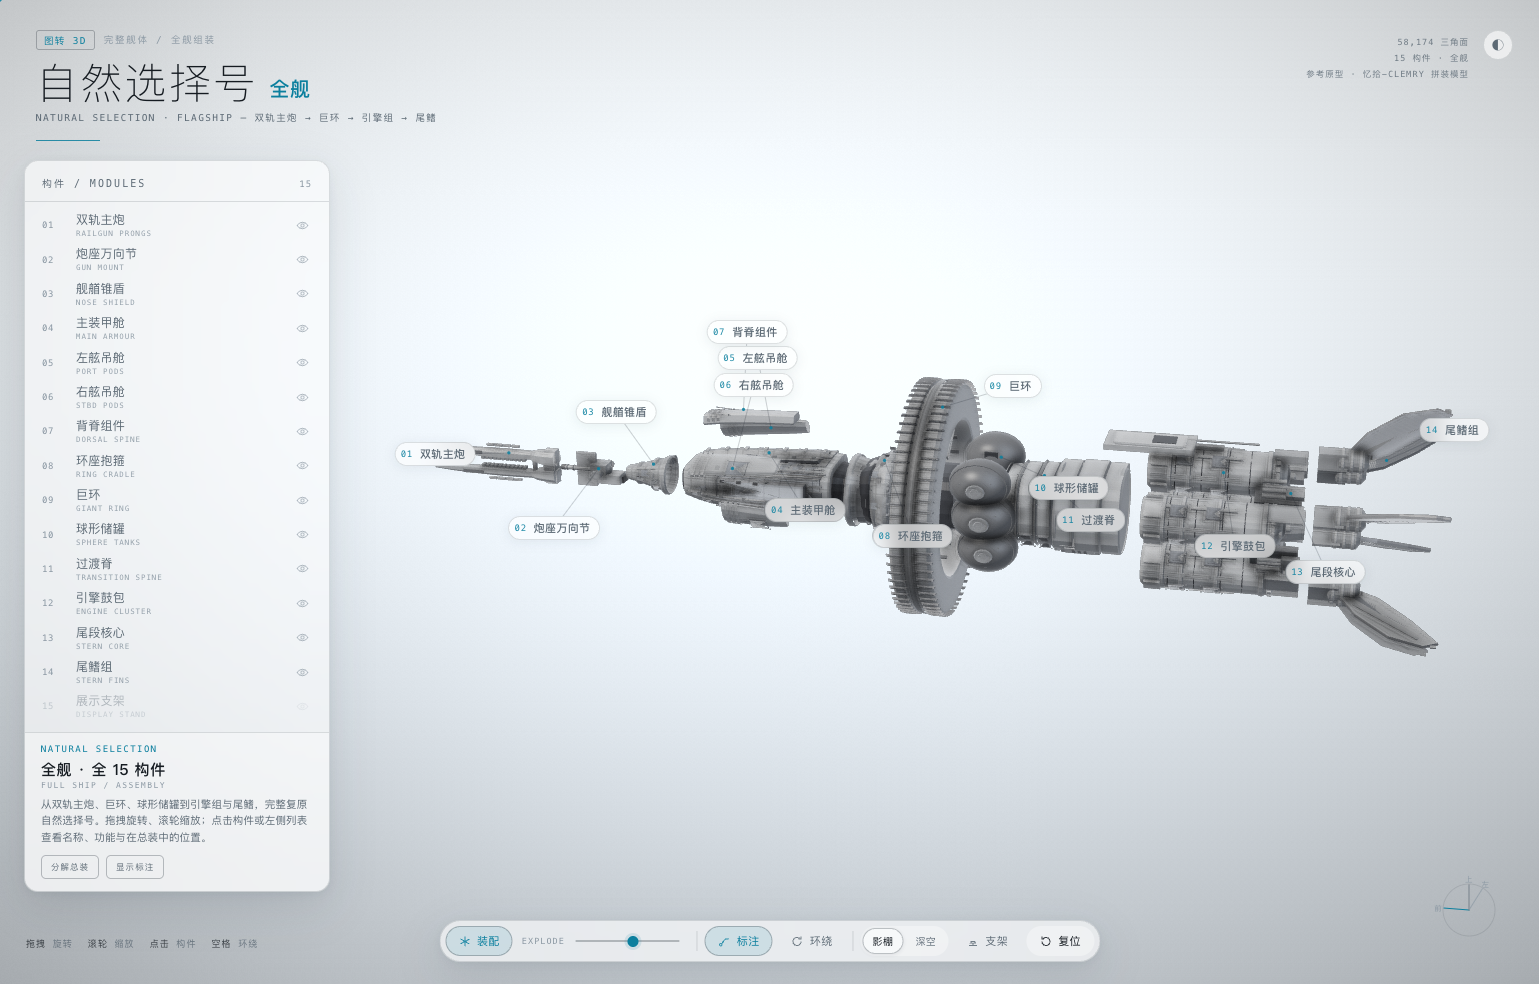
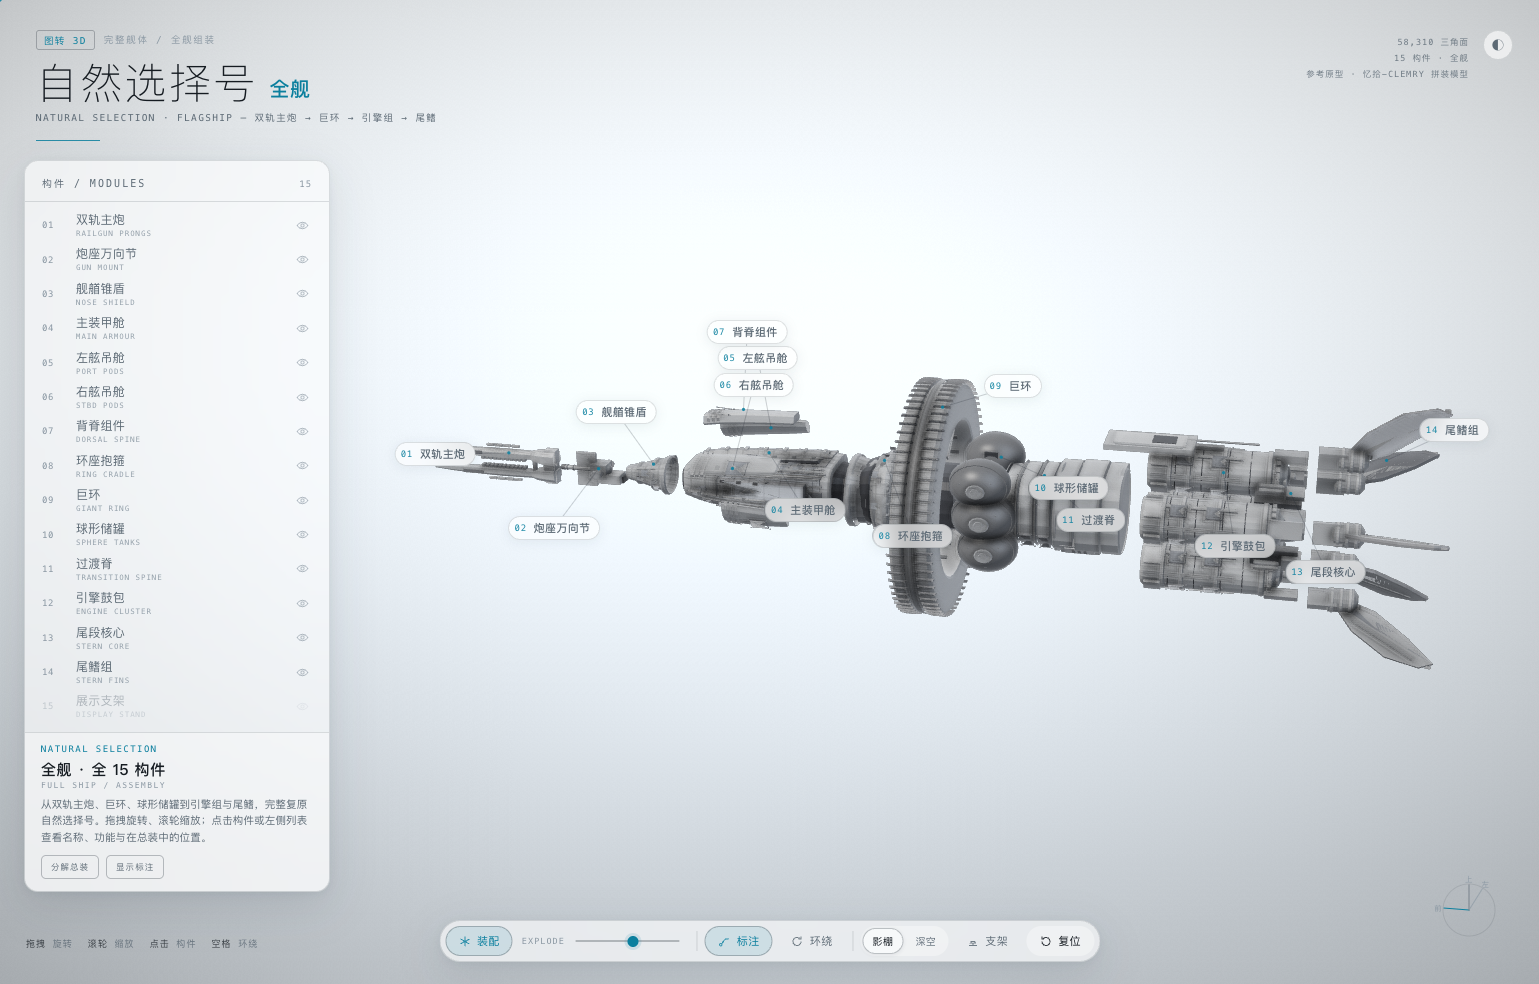
fix: 尾鳍改为 5 片并与 5 具引擎一一对应
- 尾鳍角度改为与周围 5 具引擎一致(0/72/144/216/288 度),由 6 片减为 5 片
- 每片尾鳍根部内侧增加一根独立 vernier 喷管(带箍环与暗色喷口)
- 引擎间隙的 vernier 簇由 4 根直线排列改为 3 根小三角形排列
- 尾段核心的鳍根鞍座同步改为 5 处,更新描述与预览图

Changed region(s): [[0.8109, 0.4268, 0.9357, 0.7012]]

diff --git a/自然选择号-全舰.html b/自然选择号-全舰.html
@@ -1252,7 +1252,7 @@ const PARTS = [
     desc: '尾部中央承力梁与鳍根支座,把五具环绕引擎、尾鳍与舰体主结构连成一体。',
     anchor: [-1.45, 0.55, 0.55], off: [-6.7, 0, 0] },
   { id: 13, name: '尾鳍组', en: 'STERN FINS', color: '#ffc48a',
-    desc: '尾部六片后掠稳定鳍,兼具姿态控制与散热功能,是最醒目的尾部特征。',
+    desc: '尾部五片后掠稳定鳍,与周围五具引擎一一对应,每片鳍根内各藏一根喷管。',
     anchor: [-2.4, 1.55, 0.55], off: [-8.0, 0, 0] },
   { id: 14, name: '展示支架', en: 'DISPLAY STAND', color: '#a9b4c2',
     desc: '套件附带的展示支架:双支脚 + 弯曲支臂 + 承托夹,可单独显示或收起。',
@@ -2435,19 +2435,21 @@ function buildEngines(b) {
     }
     pipe(b, [c[0] - 0.3, c[1] + 0.12, c[2]], [c[0] - 0.9, c[1] + 0.16, c[2]], 0.03, 0.02, 6, cc('metal'), true);
   }
-  // vernier nozzle clusters in the five gaps
+  // vernier clusters: 3 tubes in a small triangle, in the five gaps
   for (const d of [36, 108, 180, 252, 324]) {
     const a0 = d * Math.PI / 180;
-    for (let k = 0; k < 4; k++) {
-      const a = a0 + (k - 1.5) * 0.085;
-      const R = 1.47 + (k % 2) * 0.05;
-      const cy = Math.cos(a) * R, cz = Math.sin(a) * R;
-      const x0 = -1.68, x1 = -2.06;
-      xProf(b, [[x0, 0.055], [x1 - 0.04, 0.05], [x1, 0.032]], cy, cz, 10, cc('metal'), true, false);
-      for (let j = 0; j < 10; j++) {
-        const b0 = j / 10 * TAU, b1 = (j + 1) / 10 * TAU;
-        const P = (a2, rr) => [x1 - 0.005, cy + rr * Math.cos(a2), cz + rr * Math.sin(a2)];
-        b.tri(P(b0, 0.03), P(b1, 0.03), P((b0 + b1) / 2, 0.001), cc('recess'), [1, 0, 0], [1, 0, 0], [1, 0, 0]);
+    const rad = [0, Math.cos(a0), Math.sin(a0)], tang = [0, -Math.sin(a0), Math.cos(a0)];
+    const baseR = 1.49;
+    const baseY = rad[1] * baseR, baseZ = rad[2] * baseR;
+    const offs = [[0.065, 0.0], [-0.065, 0.0], [0.0, -0.10]];
+    for (const [ot, orr] of offs) {
+      const cy = baseY + tang[1] * ot + rad[1] * orr;
+      const cz = baseZ + tang[2] * ot + rad[2] * orr;
+      xProf(b, [[-1.62, 0.052], [-1.78, 0.052], [-2.02, 0.046], [-2.06, 0.030]], cy, cz, 9, cc('metal'), true, false);
+      for (let j = 0; j < 9; j++) {
+        const a1 = j / 9 * TAU, a2 = (j + 1) / 9 * TAU;
+        const P = (a) => [-2.062, cy + 0.032 * Math.cos(a), cz + 0.032 * Math.sin(a)];
+        b.tri(P(a1), P(a2), [-2.066, cy, cz], cc('recess'), [1, 0, 0], [1, 0, 0], [1, 0, 0]);
       }
     }
   }
@@ -2469,7 +2471,7 @@ function buildTail(b) {
     obox(b, [-1.55, cy * 1.35, cz * 1.35], [1, 0, 0], [0, cy, cz], [0, -cz, cy], 0.16, 0.08, 0.14, cc('armorD'));
   }
   // fin-root saddles
-  for (const d of [0, 60, 120, 180, 240, 300]) {
+  for (const d of [0, 72, 144, 216, 288]) {
     const a = d * Math.PI / 180;
     const cy = Math.cos(a), cz = Math.sin(a);
     obox(b, [-1.42, cy * 1.66, cz * 1.66], [1, 0, 0], [0, cy, cz], [0, -cz, cy], 0.30, 0.10, 0.20, cc('armorD'));
@@ -2514,13 +2516,25 @@ function finBlade(b, angle, scale, baseR = 0) {
   for (const x of [hubX + 0.16, hubX, hubX - 0.16]) xBand(b, x, hy, hz, 0.27, 0.032, cc('metal'));
   // root fairing block
   obox(b, to3(-1.45, 1.02), [1, 0, 0], [0, ca, sa], nrm, 0.26, 0.20, 0.24, cc('armorD'));
+  // vernier nozzle embedded in the fin root
+  {
+    const nr = 1.02 * scale + baseR + 0.06;
+    const ny = nr * ca, nz = nr * sa;
+    xProf(b, [[-1.28, 0.058], [-1.44, 0.062], [-1.76, 0.048], [-1.80, 0.032]], ny, nz, 10, cc('metal'), true, false);
+    for (let j = 0; j < 10; j++) {
+      const a0 = j / 10 * TAU, a1 = (j + 1) / 10 * TAU;
+      const P = (a) => [-1.805, ny + 0.034 * Math.cos(a), nz + 0.034 * Math.sin(a)];
+      b.tri(P(a0), P(a1), [-1.81, ny, nz], cc('recess'), [-1, 0, 0], [-1, 0, 0], [-1, 0, 0]);
+    }
+    xBand(b, -1.32, ny, nz, 0.060, 0.032, cc('armorD'));
+  }
   // tip cap
   obox(b, to3(-3.36, 2.44), [1, 0, 0], [0, ca, sa], nrm, 0.05, 0.03, 0.02, cc('metal'));
 }
 
 function buildFins(b) {
   b.begin(13, 0.55, 0, 0);
-  for (const d of [0, 60, 120, 180, 240, 300]) finBlade(b, d * Math.PI / 180, 0.95, 0.72);
+  for (const d of [0, 72, 144, 216, 288]) finBlade(b, d * Math.PI / 180, 0.95, 0.72);
   b.end();
 }
 

diff --git a/src/model.js b/src/model.js
@@ -61,7 +61,7 @@ const PARTS = [
     desc: '尾部中央承力梁与鳍根支座,把五具环绕引擎、尾鳍与舰体主结构连成一体。',
     anchor: [-1.45, 0.55, 0.55], off: [-6.7, 0, 0] },
   { id: 13, name: '尾鳍组', en: 'STERN FINS', color: '#ffc48a',
-    desc: '尾部六片后掠稳定鳍,兼具姿态控制与散热功能,是最醒目的尾部特征。',
+    desc: '尾部五片后掠稳定鳍,与周围五具引擎一一对应,每片鳍根内各藏一根喷管。',
     anchor: [-2.4, 1.55, 0.55], off: [-8.0, 0, 0] },
   { id: 14, name: '展示支架', en: 'DISPLAY STAND', color: '#a9b4c2',
     desc: '套件附带的展示支架:双支脚 + 弯曲支臂 + 承托夹,可单独显示或收起。',
@@ -1244,19 +1244,21 @@ function buildEngines(b) {
     }
     pipe(b, [c[0] - 0.3, c[1] + 0.12, c[2]], [c[0] - 0.9, c[1] + 0.16, c[2]], 0.03, 0.02, 6, cc('metal'), true);
   }
-  // vernier nozzle clusters in the five gaps
+  // vernier clusters: 3 tubes in a small triangle, in the five gaps
   for (const d of [36, 108, 180, 252, 324]) {
     const a0 = d * Math.PI / 180;
-    for (let k = 0; k < 4; k++) {
-      const a = a0 + (k - 1.5) * 0.085;
-      const R = 1.47 + (k % 2) * 0.05;
-      const cy = Math.cos(a) * R, cz = Math.sin(a) * R;
-      const x0 = -1.68, x1 = -2.06;
-      xProf(b, [[x0, 0.055], [x1 - 0.04, 0.05], [x1, 0.032]], cy, cz, 10, cc('metal'), true, false);
-      for (let j = 0; j < 10; j++) {
-        const b0 = j / 10 * TAU, b1 = (j + 1) / 10 * TAU;
-        const P = (a2, rr) => [x1 - 0.005, cy + rr * Math.cos(a2), cz + rr * Math.sin(a2)];
-        b.tri(P(b0, 0.03), P(b1, 0.03), P((b0 + b1) / 2, 0.001), cc('recess'), [1, 0, 0], [1, 0, 0], [1, 0, 0]);
+    const rad = [0, Math.cos(a0), Math.sin(a0)], tang = [0, -Math.sin(a0), Math.cos(a0)];
+    const baseR = 1.49;
+    const baseY = rad[1] * baseR, baseZ = rad[2] * baseR;
+    const offs = [[0.065, 0.0], [-0.065, 0.0], [0.0, -0.10]];
+    for (const [ot, orr] of offs) {
+      const cy = baseY + tang[1] * ot + rad[1] * orr;
+      const cz = baseZ + tang[2] * ot + rad[2] * orr;
+      xProf(b, [[-1.62, 0.052], [-1.78, 0.052], [-2.02, 0.046], [-2.06, 0.030]], cy, cz, 9, cc('metal'), true, false);
+      for (let j = 0; j < 9; j++) {
+        const a1 = j / 9 * TAU, a2 = (j + 1) / 9 * TAU;
+        const P = (a) => [-2.062, cy + 0.032 * Math.cos(a), cz + 0.032 * Math.sin(a)];
+        b.tri(P(a1), P(a2), [-2.066, cy, cz], cc('recess'), [1, 0, 0], [1, 0, 0], [1, 0, 0]);
       }
     }
   }
@@ -1278,7 +1280,7 @@ function buildTail(b) {
     obox(b, [-1.55, cy * 1.35, cz * 1.35], [1, 0, 0], [0, cy, cz], [0, -cz, cy], 0.16, 0.08, 0.14, cc('armorD'));
   }
   // fin-root saddles
-  for (const d of [0, 60, 120, 180, 240, 300]) {
+  for (const d of [0, 72, 144, 216, 288]) {
     const a = d * Math.PI / 180;
     const cy = Math.cos(a), cz = Math.sin(a);
     obox(b, [-1.42, cy * 1.66, cz * 1.66], [1, 0, 0], [0, cy, cz], [0, -cz, cy], 0.30, 0.10, 0.20, cc('armorD'));
@@ -1323,13 +1325,25 @@ function finBlade(b, angle, scale, baseR = 0) {
   for (const x of [hubX + 0.16, hubX, hubX - 0.16]) xBand(b, x, hy, hz, 0.27, 0.032, cc('metal'));
   // root fairing block
   obox(b, to3(-1.45, 1.02), [1, 0, 0], [0, ca, sa], nrm, 0.26, 0.20, 0.24, cc('armorD'));
+  // vernier nozzle embedded in the fin root
+  {
+    const nr = 1.02 * scale + baseR + 0.06;
+    const ny = nr * ca, nz = nr * sa;
+    xProf(b, [[-1.28, 0.058], [-1.44, 0.062], [-1.76, 0.048], [-1.80, 0.032]], ny, nz, 10, cc('metal'), true, false);
+    for (let j = 0; j < 10; j++) {
+      const a0 = j / 10 * TAU, a1 = (j + 1) / 10 * TAU;
+      const P = (a) => [-1.805, ny + 0.034 * Math.cos(a), nz + 0.034 * Math.sin(a)];
+      b.tri(P(a0), P(a1), [-1.81, ny, nz], cc('recess'), [-1, 0, 0], [-1, 0, 0], [-1, 0, 0]);
+    }
+    xBand(b, -1.32, ny, nz, 0.060, 0.032, cc('armorD'));
+  }
   // tip cap
   obox(b, to3(-3.36, 2.44), [1, 0, 0], [0, ca, sa], nrm, 0.05, 0.03, 0.02, cc('metal'));
 }
 
 function buildFins(b) {
   b.begin(13, 0.55, 0, 0);
-  for (const d of [0, 60, 120, 180, 240, 300]) finBlade(b, d * Math.PI / 180, 0.95, 0.72);
+  for (const d of [0, 72, 144, 216, 288]) finBlade(b, d * Math.PI / 180, 0.95, 0.72);
   b.end();
 }
 
